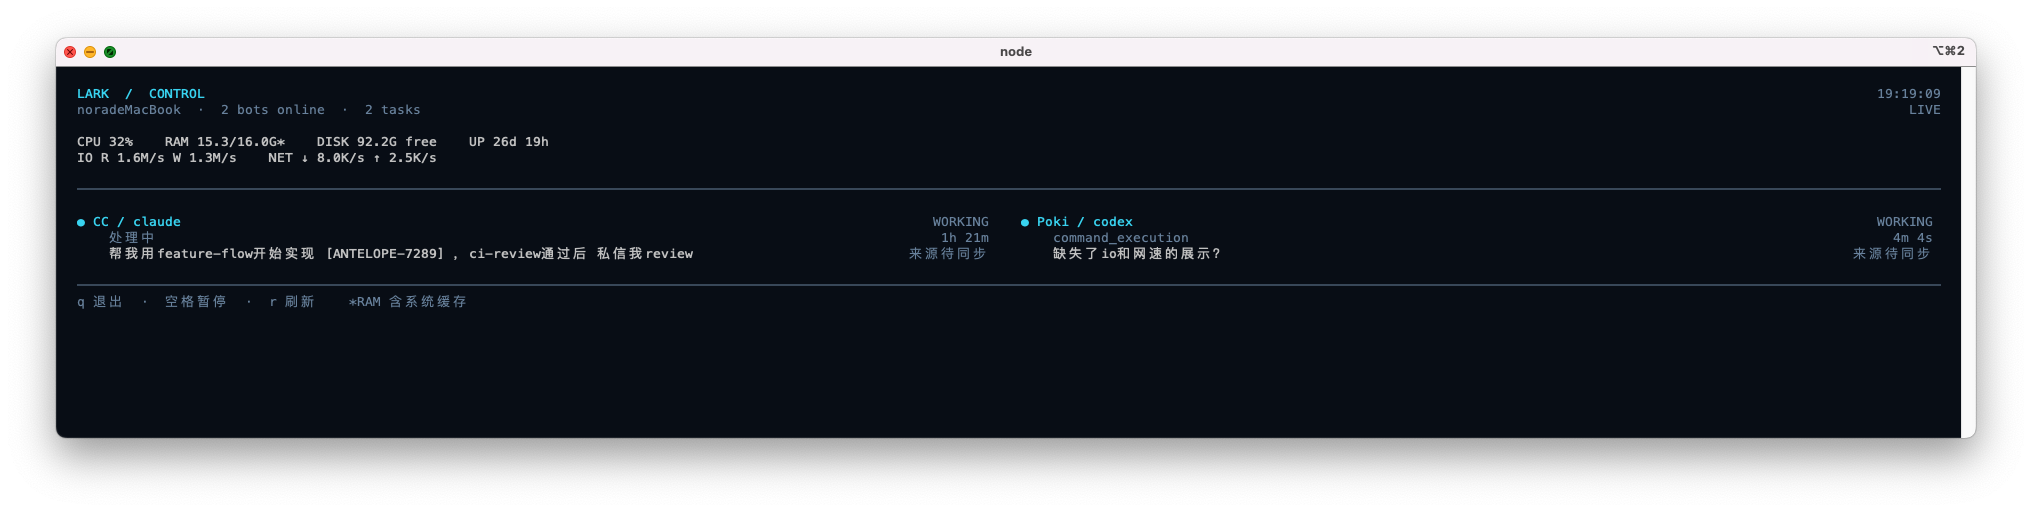
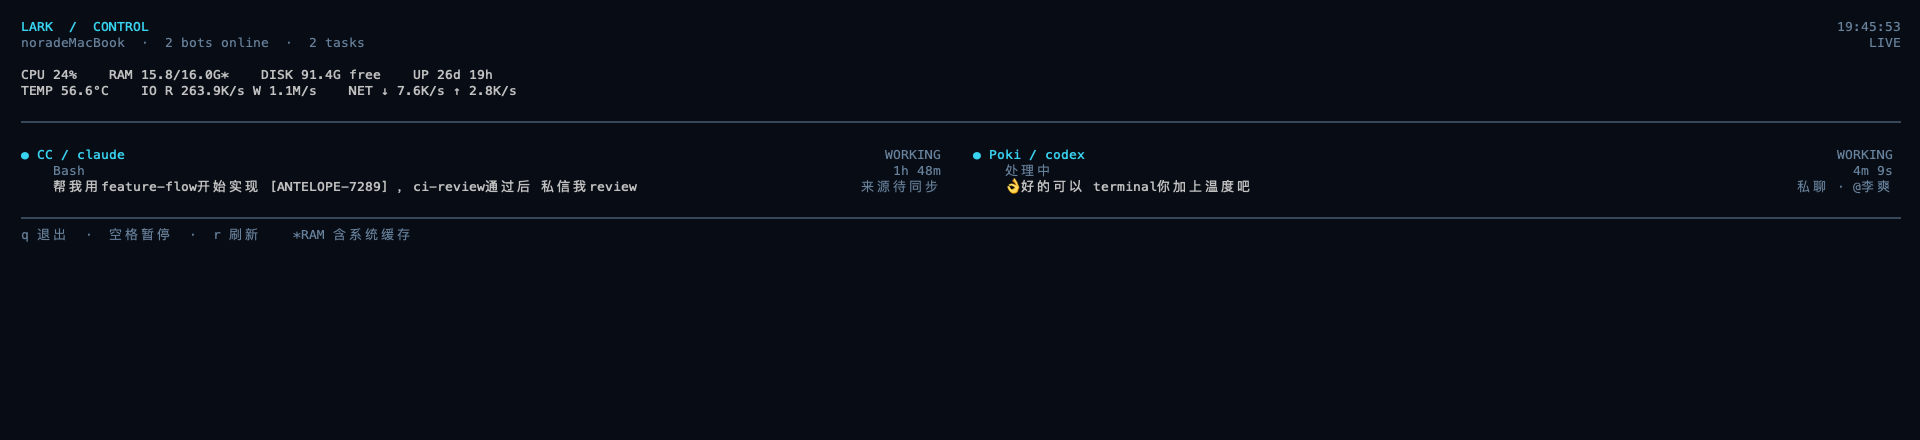
feat(monitor): 展示宿主机 CPU 温度
使用可选的本机温度传感器，每五秒最多采集一次，读取失败显示不可用。补充采样缓存与失败恢复测试，并更新中英文说明和实际截图。

diff --git a/tests/unit/terminal/monitor.test.ts b/tests/unit/terminal/monitor.test.ts
@@ -69,7 +69,7 @@ describe('terminal monitor', () => {
 describe('responsive monitor layout', () => {
   const snapshot = {
     now: 1000, host: 'host', cores: 8, load: 1,
-    metrics: { io: { disk: { read: 2048, write: 4096 }, network: { read: 8192, write: 16384 }, sampledAt: 1000 }, cpuPercent: 30, memoryTotal: 16 * 1024 ** 3, memoryNonFree: 12 * 1024 ** 3, uptimeSeconds: 50000, disk: { total: 100, used: 10, available: 90, sampledAt: 1000 } },
+    metrics: { temperatureC: 56.2, io: { disk: { read: 2048, write: 4096 }, network: { read: 8192, write: 16384 }, sampledAt: 1000 }, cpuPercent: 30, memoryTotal: 16 * 1024 ** 3, memoryNonFree: 12 * 1024 ** 3, uptimeSeconds: 50000, disk: { total: 100, used: 10, available: 90, sampledAt: 1000 } },
     bots: ['CC', 'Poki'].map(name => ({ profile: name, name, agent: 'agent', online: true, runs: [{ runId: name, scope: 'chat', chatId: 'chat', originMessageId: 'msg', promptPreview: '检查终端响应式布局和任务进度 '.repeat(12), startedAt: 0, ownerPid: process.pid, orphan: false }] })),
   };
   const cells = (text: string) => [...clean(text)].reduce((sum, c) => sum + ((c.codePointAt(0) ?? 0) >= 0x2e80 ? 2 : 1), 0);
@@ -77,6 +77,7 @@ describe('responsive monitor layout', () => {
     const lines = renderMonitor(snapshot, 238, 67, false).split('\n');
     expect(lines.some(line => line.includes('CC /') && line.includes('Poki /'))).toBe(true);
     expect(Math.max(...lines.map(cells))).toBeGreaterThan(220);
+    expect(lines.join('\n')).toContain('TEMP 56.2°C');
     expect(lines.join('\n')).toContain('IO R 2.0K/s W 4.0K/s');
     expect(lines.join('\n')).toContain('NET ↓ 8.0K/s ↑ 16.0K/s');
   });

diff --git a/src/terminal/temperature.ts b/src/terminal/temperature.ts
@@ -1,0 +1,36 @@
+import { execFile } from 'node:child_process';
+import { access } from 'node:fs/promises';
+import { constants } from 'node:fs';
+import { platform } from 'node:os';
+import { promisify } from 'node:util';
+
+const exec = promisify(execFile);
+export function parseTemperature(text: string): number | null {
+  const match = text.trim().match(/^(\d+(?:\.\d+)?)\s*°C$/);
+  const value = match ? Number(match[1]) : NaN;
+  return Number.isFinite(value) && value > 0 && value <= 125 ? value : null;
+}
+async function findSensor(): Promise<string | undefined> {
+  if (platform() !== 'darwin') return undefined;
+  for (const path of ['/opt/homebrew/bin/osx-cpu-temp', '/usr/local/bin/osx-cpu-temp']) {
+    try { await access(path, constants.X_OK); return path; } catch { /* Optional local sensor. */ }
+  }
+  return undefined;
+}
+/** Optional macOS sensor; no sudo, automatic installation or persistent child process. */
+export function createTemperatureSampler(read?: () => Promise<number | null>) {
+  const sensor = read ? undefined : findSensor();
+  const sample = read ?? (async () => {
+    const binary = await sensor;
+    if (!binary) return null;
+    return parseTemperature((await exec(binary, [], { timeout: 1500, maxBuffer: 4096, encoding: 'utf8' })).stdout);
+  });
+  let at = -Infinity;
+  let value: number | null = null;
+  return async (now = Date.now()): Promise<number | null> => {
+    if (now >= at && now - at < 5000) return value;
+    at = now;
+    value = await sample().catch(() => null);
+    return value;
+  };
+}

diff --git a/src/terminal/host.ts b/src/terminal/host.ts
@@ -1,3 +1,4 @@
+import { createTemperatureSampler } from './temperature';
 import { createIoSampler, type IoMetrics } from './io';
 import { statfs } from 'node:fs/promises';
 import { cpus, freemem, homedir, totalmem, uptime } from 'node:os';
@@ -5,6 +6,7 @@ import { cpus, freemem, homedir, totalmem, uptime } from 'node:os';
 export interface CpuTicks { idle: number; total: number }
 export interface HostMetrics {
   cpuPercent: number | null;
+  temperatureC?: number | null;
   io?: IoMetrics;
   memoryTotal: number;
   memoryNonFree: number;
@@ -20,6 +22,7 @@ export function cpuPercent(previous: CpuTicks, current: CpuTicks): number | null
 /** OS counters only; disk stats are cached for 30s. Never spawn top/ps per frame. */
 export function createHostSampler() {
   const sampleIo = createIoSampler();
+  const sampleTemperature = createTemperatureSampler();
   let previous: CpuTicks | undefined;
   let disk: HostMetrics['disk'];
   let diskAttempt = -Infinity;
@@ -37,6 +40,7 @@ export function createHostSampler() {
       } catch { /* Disk metrics may be unavailable; retain the previous timestamped sample. */ }
     }
     const memoryTotal = totalmem();
-    return { io: await sampleIo(now), cpuPercent: percent, memoryTotal, memoryNonFree: memoryTotal - freemem(), uptimeSeconds: uptime(), disk };
+    const [io, temperatureC] = await Promise.all([sampleIo(now), sampleTemperature(now)]);
+    return { io, temperatureC, cpuPercent: percent, memoryTotal, memoryNonFree: memoryTotal - freemem(), uptimeSeconds: uptime(), disk };
   };
 }

diff --git a/tests/unit/terminal/host.test.ts b/tests/unit/terminal/host.test.ts
@@ -2,6 +2,7 @@ import { describe, it, expect, vi } from 'vitest';
 import { statfs } from 'node:fs/promises';
 import { cpuPercent, createHostSampler } from '../../../src/terminal/host';
 vi.mock('../../../src/terminal/io', () => ({ createIoSampler: () => async () => ({ disk: null, network: null, sampledAt: 0 }) }));
+vi.mock('../../../src/terminal/temperature', () => ({ createTemperatureSampler: () => async () => 56.2 }));
 vi.mock('node:fs/promises', () => ({ statfs: vi.fn().mockResolvedValue({ blocks: 100, bfree: 30, bavail: 20, bsize: 1024 }) }));
 describe('host metrics', () => {
   it('uses counter deltas rather than lifetime CPU averages', () => {
@@ -13,6 +14,7 @@ describe('host metrics', () => {
     const read = createHostSampler();
     const first = await read(1000);
     expect(first.cpuPercent).toBeNull();
+    expect(first.temperatureC).toBe(56.2);
     expect(first.disk).toEqual({ total: 102400, used: 71680, available: 20480, sampledAt: 1000 });
     await read(3000);
     expect(statfs).toHaveBeenCalledTimes(1);

diff --git a/tests/unit/terminal/temperature.test.ts b/tests/unit/terminal/temperature.test.ts
@@ -1,0 +1,18 @@
+import { describe, expect, it, vi } from 'vitest';
+import { createTemperatureSampler, parseTemperature } from '../../../src/terminal/temperature';
+
+describe('CPU temperature', () => {
+  it('accepts sensor output and rejects missing or invalid readings', () => {
+    expect(parseTemperature('56.2°C\n')).toBe(56.2);
+    for (const value of ['0.0°C', 'NaN°C', 'error', '56°F', '200°C', '56°C extra']) expect(parseTemperature(value)).toBeNull();
+  });
+  it('samples at most every five seconds and clears failed readings', async () => {
+    const sensor = vi.fn().mockResolvedValueOnce(56.2).mockRejectedValueOnce(new Error('sensor unavailable')).mockResolvedValue(58);
+    const sample = createTemperatureSampler(sensor);
+    expect(await sample(1000)).toBe(56.2);
+    expect(await sample(5999)).toBe(56.2);
+    expect(sensor).toHaveBeenCalledTimes(1);
+    expect(await sample(6000)).toBeNull();
+    expect(await sample(11000)).toBe(58);
+  });
+});

diff --git a/src/terminal/monitor.ts b/src/terminal/monitor.ts
@@ -137,7 +137,7 @@ export function renderMonitor(s: MonitorSnapshot, columns = 110, rows = 36, colo
       `DISK ${m.disk ? gib(m.disk.available) + 'G free' : '—'}`, `UP ${up}`];
     const speed = (n: number) => n >= 1024 ** 2 ? (n / 1024 ** 2).toFixed(1) + 'M/s' : (n / 1024).toFixed(1) + 'K/s';
     const io = m.io;
-    const traffic = [io?.disk ? `IO R ${speed(io.disk.read)} W ${speed(io.disk.write)}` : 'IO —',
+    const traffic = [`TEMP ${m.temperatureC == null ? '—' : m.temperatureC.toFixed(1) + '°C'}`, io?.disk ? `IO R ${speed(io.disk.read)} W ${speed(io.disk.write)}` : 'IO —',
       io?.network ? `NET ↓ ${speed(io.network.read)} ↑ ${speed(io.network.write)}` : 'NET —'];
     const perRow = w >= 72 ? 4 : w >= 40 ? 2 : 1;
     for (let i = 0; i < metrics.length; i += perRow) out.push(line(metrics.slice(i, i + perRow).join('    ')));

diff --git a/README.md b/README.md
@@ -166,6 +166,8 @@ The examples above refresh every five seconds; omitting `--interval` uses the tw
 
 On macOS, physical disk read/write rates and physical network download/upload rates use counter deltas, excluding loopback and tunnel duplicates. Initial or unavailable samples show `—`; I/O sampling runs at most once every five seconds.
 
+On macOS, install `osx-cpu-temp` (`brew install osx-cpu-temp`) to display CPU temperature as `TEMP`, sampled at most once every five seconds. Missing, unsupported or failed sensors show `—`. No sudo is required.
+
 The layout adapts to the viewport: wide windows show bots in two columns, ordinary windows stack them, and narrow windows split host metrics across rows. Resizing immediately reflows the dashboard.
 
 Each task shows its chat name (or DM) and requester on the right, moving to a separate row in narrow windows. Names are captured when the task starts; refreshing makes no Feishu API calls. Older tasks or unresolved names display a pending label. Restart the bridge after upgrading to record origins for new tasks.

diff --git a/README.zh.md b/README.zh.md
@@ -166,6 +166,8 @@ lark-channel-bridge monitor --json
 
 macOS 额外展示物理磁盘读写速率和物理网卡下载/上传速率，按采样间隔差值计算，排除回环和隧道重复计数；首轮采样或采集失败显示 `—`，I/O 采样最多每 5 秒一次。
 
+macOS 上安装 `osx-cpu-temp`（`brew install osx-cpu-temp`）后，面板还会显示 CPU 温度 `TEMP`，最多每 5 秒采集一次；未安装、传感器不支持或采集失败时显示 `—`。无需 sudo。
+
 布局随窗口尺寸调整：宽屏双列展示 bot，普通窗口纵向排列，窄窗口拆分宿主机指标；缩放窗口会立即重新排版。
 
 每项任务右侧展示群名（或私聊）和发起人姓名，窄屏时另起一行。名称在任务启动时记录，刷新不调用飞书接口；旧任务或未解析到的名称显示待同步。升级后需重启 bridge 才开始记录新任务的来源。
